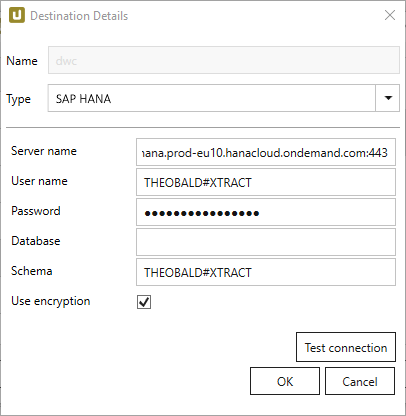
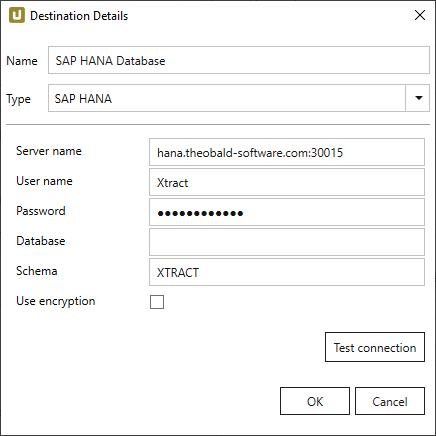
XU SAP HANA small change

diff --git a/projects/xtract-universal/docs/documentation/destinations/sap-hana.md b/projects/xtract-universal/docs/documentation/destinations/sap-hana.md
@@ -6,27 +6,27 @@ destination: sap-hana
 
 This page shows how to set up and use the {{ page.meta.title }} destination. 
 The {{ page.meta.title }} destination loads data to an SAP HANA database or to SAP Datasphere.
-
 When loading data to SAP Datasphere, SAP Datasphere's underlying HANA database is used as a destination. 
 
 
 ## Requirements
 
-To establish a connection to the HANA database or SAP Datasphere, the *SAP HANA Data Provider for Microsoft ADO.NET* version **2.17.22** is required. 
+To establish a connection to an SAP HANA database or SAP Datasphere, the *SAP HANA Data Provider for Microsoft ADO.NET* version **2.17.22** is required. 
 The data provider is part of the SAP HANA Client setup.
 
 {% include "destinations/create-destination.md" %}
+The destination details can be defined for an SAP HANA database or for an SAP Datasphere connection.
 
-The destination settings can be defined for the HANA database or SAP Datasphere connection:
+For information on SAP Datasphere connection parameters, refer to the following SAP resources:
+- [SAP Help: Create a Database User](https://help.sap.com/docs/SAP_DATASPHERE/be5967d099974c69b77f4549425ca4c0/798e3fd6707940c3bd2219b2d1ebaac2.html?locale=en-US)
+- [SAP Help: Obtaining Your OPEN SQL Schema Connection Information](https://help.sap.com/docs/SAP_DATASPHERE/be5967d099974c69b77f4549425ca4c0/b78ad208f8c4494489aabf97284679b6.html?locale=en-US#obtaining-[…]nformation).
 
-=== "SAP HANA Database"
-	![Destination-Details](../../assets/images/xu/documentation/destinations/hana/destination-details_2.png){:class="img-responsive"}
-=== "SAP Datasphere"
-	![Destination-Details](../../assets/images/xu/documentation/destinations/hana/destination-details_1_1.png){:class="img-responsive"}
+![Destination-Details](../../assets/images/xu/documentation/destinations/hana/destination-details_1.png){:class="img-responsive" width="48%"} &nbsp;
+![Destination-Details](../../assets/images/xu/documentation/destinations/hana/destination-details_1_1.png){:class="img-responsive" width="48%"}
 
 
 #### Server Name
-Enter the address of the server (including the port number). Note the different port numbers for HANA and SAP Datasphere (see screenshots).
+Enter the address of the server (including the port number). Note that there are different port numbers for SAP HANA and SAP Datasphere.
 
 #### User Name
 Enter the SAP HANA/SAP Datasphere user name. 
@@ -41,13 +41,10 @@ Enter the name of the database.
 Enter the name of the database schema.
 
 #### Use encryption
-Activates connection encryption. This is required when connecting to SAP Datasphere.
+Activates connection encryption. This option is required when connecting to SAP Datasphere.
 
 #### Test Connection
 Check the database connection.  
-
-For SAP Datasphere's connection parameters see SAP Help: [Create a Database User](https://help.sap.com/docs/SAP_DATASPHERE/be5967d099974c69b77f4549425ca4c0/798e3fd6707940c3bd2219b2d1ebaac2.html?locale=en-US) and [Obtaining Your OPEN SQL Schema Connection Information](https://help.sap.com/docs/SAP_DATASPHERE/be5967d099974c69b77f4549425ca4c0/b78ad208f8c4494489aabf97284679b6.html?locale=en-US#obtaining-[…]nformation).
-
 
 {% include "destinations/assign-destination.md" %}
 
